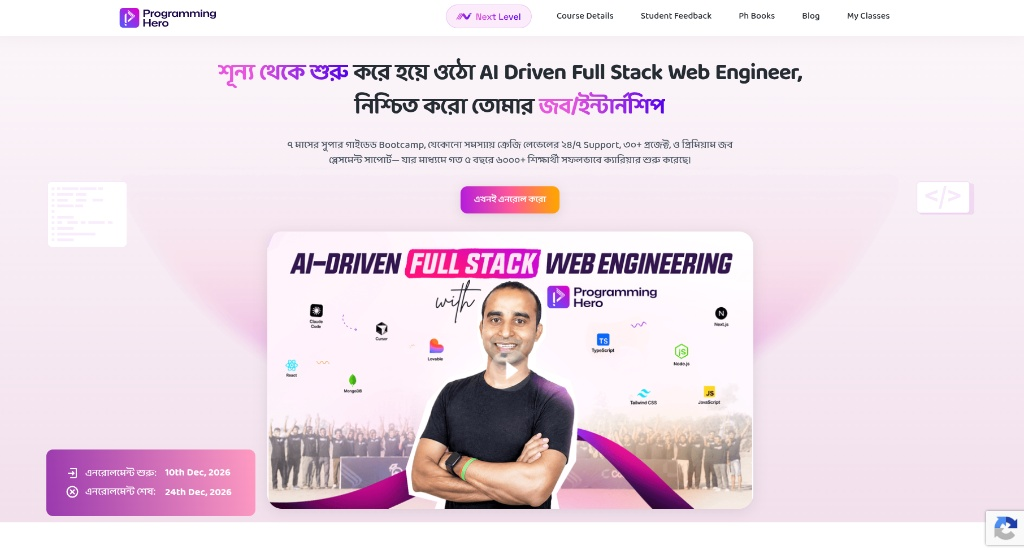
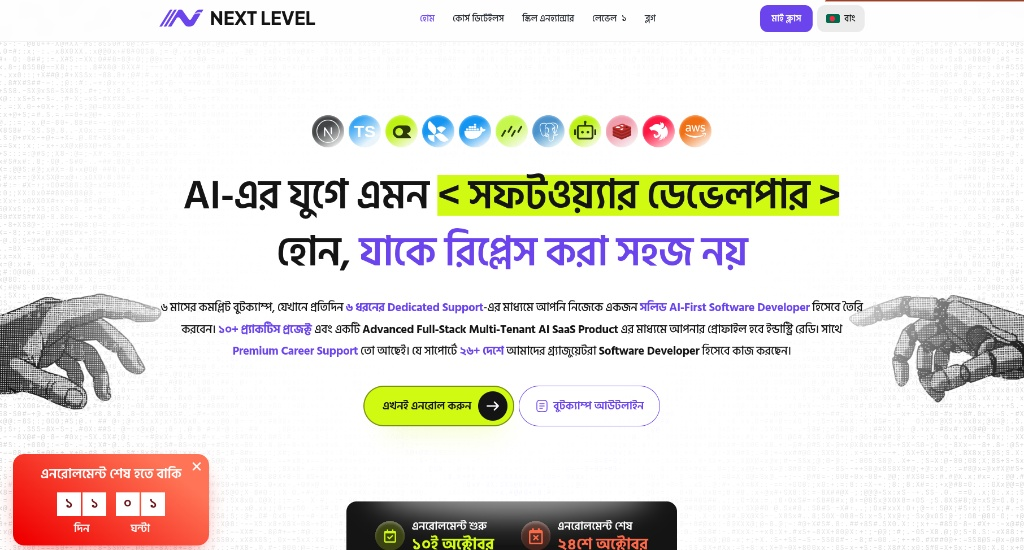
feat: update project details and images for enhanced presentation

diff --git a/apps/frontend/components/tech-tools/tech-tools-section.tsx b/apps/frontend/components/tech-tools/tech-tools-section.tsx
@@ -19,30 +19,30 @@ const layers = [
   {
     id: "backend", icon: ServerStack02Icon, title: "Backend engineering", label: "Services and APIs",
     description: "I build APIs, authentication, and services with clear boundaries, typed communication, and testing that supports confident changes.",
-    tools: ["Node.js", "Express.js", "Golang", "Python", "gRPC", "tRPC", "Testing"],
-    example: "Built services in Go and Python with gRPC and tRPC, and implemented OpenID Connect for single sign-on across company products.",
-    role: "developer", context: "Programming Hero",
+    tools: ["Node.js", "Express.js", "Golang", "Python", "gRPC", "tRPC", "BullMQ", "FFmpeg", "Testing"],
+    example: "Built Go and Python services with gRPC and tRPC. Mentora uses SSE for streamed answers and BullMQ workers for video ingestion with FFmpeg.",
+    role: "developer", context: "Programming Hero & Mentora",
   },
   {
     id: "systems", icon: Structure02Icon, title: "System design", label: "Architecture and boundaries",
     description: "I turn product requirements into clear service boundaries and data flows, with attention to maintainability, security, and performance.",
-    tools: ["System design", "Service architecture", "OIDC", "Security", "Performance", "Code review"],
-    example: "Designed centralized authentication across company products and mentored developers through full-stack architecture decisions.",
-    role: "developer", context: "Programming Hero",
+    tools: ["System design", "Service architecture", "Background jobs", "Event sourcing", "Turborepo", "OIDC", "Security", "Performance", "Code review"],
+    example: "Designed centralized authentication across company products. Mentora separates interactive requests from background jobs and derives skill mastery from an append-only learning event ledger.",
+    role: "developer", context: "Programming Hero & Mentora",
   },
   {
     id: "database", icon: Database02Icon, title: "Database", label: "Storage and access",
-    description: "I work with relational and document databases, data modeling, and caching to keep application data organized and accessible.",
-    tools: ["PostgreSQL", "MongoDB", "Mongoose", "Prisma", "Drizzle", "GORM", "Redis", "Firebase"],
-    example: "Handle Redis-backed performance work and have taught database development with MongoDB, PostgreSQL, and Prisma.",
-    role: "senior-mentor", context: "Programming Hero",
+    description: "I work with relational and document databases, data modeling, caching, and vector search to keep application data organized and accessible.",
+    tools: ["PostgreSQL", "pgvector", "MongoDB", "Mongoose", "Prisma", "Drizzle", "GORM", "Redis", "Firebase"],
+    example: "Teach database development with PostgreSQL, MongoDB, and Prisma. Mentora combines pgvector similarity with full-text search to retrieve lecture context within a learner’s watch time.",
+    role: "senior-mentor", context: "Programming Hero & Mentora",
   },
   {
     id: "ai", icon: AiBrain03Icon, title: "AI and automation", label: "Agents and workflows",
     description: "I build AI agents and useful automation, connecting language models with relevant data through RAG and vector search.",
-    tools: ["AI Agent", "RAG", "Vector DB", "Python", "AI integration", "Agentic development"],
-    example: "Contributed to Edulavo’s personalized learning roadmaps using a multi-agent architecture. Now integrating RAG and vector search into learning products.",
-    role: "developer", context: "Edulavo & Programming Hero",
+    tools: ["AI Agent", "RAG", "Vector DB", "OpenRouter", "OpenAI SDK", "Deepgram", "Python", "AI integration", "Agentic development"],
+    example: "Contributed to Edulavo’s multi-agent learning roadmaps. Mentora combines Deepgram transcription, OpenAI embeddings, and OpenRouter model routing for cited lecture Q&A and checkpoint quizzes.",
+    role: "developer", context: "Edulavo & Mentora",
   },
   {
     id: "cloud", icon: CloudServerIcon, title: "Cloud delivery", label: "Deployment and operations",
@@ -97,17 +97,17 @@ function StackBlueprint({ selected, reducedMotion, onSelect }: { selected: numbe
             onFocus={() => setFocused(index)}
             onBlur={() => setFocused(null)}
           >
-          <motion.g aria-hidden="true" className={`${styles.layerVisual} ${selected === index ? styles.activePlane : styles.plane}`} animate={{ y: (selected === index ? -12 : 0) - (highlighted && !reducedMotion ? 8 : 0) }} transition={{ duration: reducedMotion ? 0 : 0.35, ease: [0.22, 1, 0.36, 1] }}>
-            <path className={styles.planeEdge} d={`M128 ${y + 80} 320 ${y + 176} 512 ${y + 80}V${y + 92}L320 ${y + 188} 128 ${y + 92}Z`} />
-            <path className={styles.planeFace} d={`M128 ${y + 80} 320 ${y - 16} 512 ${y + 80} 320 ${y + 176}Z`} />
-            <path className={styles.planeGrid} d={`M192 ${y + 48} 384 ${y + 144} M256 ${y + 16} 448 ${y + 112} M192 ${y + 112} 384 ${y + 16} M256 ${y + 144} 448 ${y + 48}`} />
-            <path className={styles.trace} d={`M224 ${y + 80} 288 ${y + 48} 352 ${y + 80} 416 ${y + 48}`} />
-            <circle className={styles.node} cx="224" cy={y + 80} r="4" /><circle className={styles.node} cx="416" cy={y + 48} r="4" />
-            <path className={styles.callout} d={`M512 ${y + 80}H548`} /><circle cx="560" cy={y + 80} r="4" className={styles.node} />
-          </motion.g>
-          {/* Fixed hit areas keep the pointer stable while the visible layer lifts. */}
-          <path className={styles.layerHitArea} d={`M128 ${y + 80} 320 ${y - 16} 512 ${y + 80}V${y + 92}L320 ${y + 188} 128 ${y + 92}Z`} />
-          <rect className={styles.layerHitArea} x="540" y={y + 60} width="56" height="40" />
+            <motion.g aria-hidden="true" className={`${styles.layerVisual} ${selected === index ? styles.activePlane : styles.plane}`} animate={{ y: (selected === index ? -12 : 0) - (highlighted && !reducedMotion ? 8 : 0) }} transition={{ duration: reducedMotion ? 0 : 0.35, ease: [0.22, 1, 0.36, 1] }}>
+              <path className={styles.planeEdge} d={`M128 ${y + 80} 320 ${y + 176} 512 ${y + 80}V${y + 92}L320 ${y + 188} 128 ${y + 92}Z`} />
+              <path className={styles.planeFace} d={`M128 ${y + 80} 320 ${y - 16} 512 ${y + 80} 320 ${y + 176}Z`} />
+              <path className={styles.planeGrid} d={`M192 ${y + 48} 384 ${y + 144} M256 ${y + 16} 448 ${y + 112} M192 ${y + 112} 384 ${y + 16} M256 ${y + 144} 448 ${y + 48}`} />
+              <path className={styles.trace} d={`M224 ${y + 80} 288 ${y + 48} 352 ${y + 80} 416 ${y + 48}`} />
+              <circle className={styles.node} cx="224" cy={y + 80} r="4" /><circle className={styles.node} cx="416" cy={y + 48} r="4" />
+              <path className={styles.callout} d={`M512 ${y + 80}H548`} /><circle cx="560" cy={y + 80} r="4" className={styles.node} />
+            </motion.g>
+            {/* Fixed hit areas keep the pointer stable while the visible layer lifts. */}
+            <path className={styles.layerHitArea} d={`M128 ${y + 80} 320 ${y - 16} 512 ${y + 80}V${y + 92}L320 ${y + 188} 128 ${y + 92}Z`} />
+            <rect className={styles.layerHitArea} x="540" y={y + 60} width="56" height="40" />
           </g>
         );
       })}
@@ -160,19 +160,19 @@ export function TechToolsSection() {
             <div className={styles.diagramHeader}><HugeiconsIcon icon={layer.icon} size={24} aria-hidden="true" /><span>Select a layer to explore</span></div>
             <div className={styles.diagram}><StackBlueprint selected={selected} reducedMotion={reducedMotion} onSelect={selectManually} /><span className={styles.diagramLabel}>{layer.label}</span></div>
             <div className={styles.panels}>
-            {layers.map((item, index) => (
-              <div key={item.id} role="tabpanel" id={`tech-panel-${item.id}`} aria-labelledby={`tech-tab-${item.id}`} hidden={selected !== index} tabIndex={0} className={styles.panel}>
-                <motion.div key={`${item.id}-${selected === index}`} initial={reducedMotion || selected !== index ? false : { opacity: 0, y: 8 }} animate={{ opacity: 1, y: 0 }} transition={{ duration: reducedMotion ? 0 : 0.3 }}>
-                  <div className={styles.panelHeading}><h3>{item.title}</h3></div><p className={styles.panelCopy}>{item.description}</p>
-                  <ul className={styles.tools}>{item.tools.map((tool, toolIndex) => <motion.li key={tool} initial={reducedMotion ? false : { opacity: 0, y: 6 }} animate={{ opacity: 1, y: 0 }} transition={{ duration: reducedMotion ? 0 : 0.25, delay: reducedMotion ? 0 : toolIndex * 0.035 }}>{tool}</motion.li>)}</ul>
-                  <div className={styles.example}>
-                    <p className={styles.exampleLabel}>In practice <span>{item.context}</span></p>
-                    <p className={styles.exampleCopy}>{item.example}</p>
-                    <a href={`#experience-${item.role}`} className={styles.exampleLink}>Explore the role <span aria-hidden="true">↗</span></a>
-                  </div>
-                </motion.div>
-              </div>
-            ))}
+              {layers.map((item, index) => (
+                <div key={item.id} role="tabpanel" id={`tech-panel-${item.id}`} aria-labelledby={`tech-tab-${item.id}`} hidden={selected !== index} tabIndex={0} className={styles.panel}>
+                  <motion.div key={`${item.id}-${selected === index}`} initial={reducedMotion || selected !== index ? false : { opacity: 0, y: 8 }} animate={{ opacity: 1, y: 0 }} transition={{ duration: reducedMotion ? 0 : 0.3 }}>
+                    <div className={styles.panelHeading}><h3>{item.title}</h3></div><p className={styles.panelCopy}>{item.description}</p>
+                    <ul className={styles.tools}>{item.tools.map((tool, toolIndex) => <motion.li key={tool} initial={reducedMotion ? false : { opacity: 0, y: 6 }} animate={{ opacity: 1, y: 0 }} transition={{ duration: reducedMotion ? 0 : 0.25, delay: reducedMotion ? 0 : toolIndex * 0.035 }}>{tool}</motion.li>)}</ul>
+                    <div className={styles.example}>
+                      <p className={styles.exampleLabel}>In practice <span>{item.context}</span></p>
+                      <p className={styles.exampleCopy}>{item.example}</p>
+                      <a href={`#experience-${item.role}`} className={styles.exampleLink}>Explore the role <span aria-hidden="true">↗</span></a>
+                    </div>
+                  </motion.div>
+                </div>
+              ))}
             </div>
           </div>
         </motion.div>

diff --git a/apps/frontend/components/projects/projects-section.tsx b/apps/frontend/components/projects/projects-section.tsx
@@ -19,33 +19,54 @@ const projects = [
     imageAlt: "Edulavo website showing an AI-powered skill coach and adaptive learning paths",
     href: "https://www.edulavo.com/",
     host: "edulavo.com",
+    linkLabel: "Visit live site",
+    previewLabel: "Open site",
     technologies: ["Next.js", "TypeScript", "OpenAI", "Python", "gRPC", "tRPC", "CrewAI"],
     className: styles.featured,
   },
   {
-    id: "next-level",
+    id: "mentora",
     index: "02",
+    name: "Mentora",
+    label: "AI-native learning ecosystem",
+    description: "Video lectures become conversations, with cited AI answers, checkpoint quizzes, and a digital twin that tracks each learner’s skills.",
+    image: "/images/project2.png",
+    imageAlt: "Mentora banner with an AI learning assistant and the tagline AI-Powered Interactive Education Ecosystem",
+    href: "https://github.com/mir-hussain/ph-ai-eco",
+    host: "github.com/mir-hussain/ph-ai-eco",
+    linkLabel: "View repository",
+    previewLabel: "Open repository",
+    technologies: ["Next.js", "TypeScript", "Express", "Prisma", "PostgreSQL", "pgvector", "Redis", "BullMQ", "OpenRouter", "Deepgram"],
+    className: styles.mentora,
+  },
+  {
+    id: "next-level",
+    index: "03",
     name: "Next Level",
     label: "AI-first engineering program",
     description: "A career-focused learning experience for developers becoming production-ready engineers.",
-    image: "/images/project2.jpeg",
+    image: "/images/project3.jpeg",
     imageAlt: "Next Level website promoting an AI-first software engineering program",
     href: "https://next.programming-hero.com/",
     host: "next.programming-hero.com",
-    technologies: ["Next.js", "TypeScript", "Node.js", "PostgreSQL"],
+    linkLabel: "Visit live site",
+    previewLabel: "Open site",
+    technologies: ["Next.js", "TypeScript", "Node.js", "MongoDB", "Mongoose", "Redis", "Docker"],
     className: styles.nextLevel,
   },
   {
     id: "programming-hero",
-    index: "03",
+    index: "04",
     name: "Programming Hero",
     label: "Career-focused ed-tech platform",
     description: "Practical learning programs helping developers build real-world software skills.",
-    image: "/images/project3.jpeg",
+    image: "/images/project4.jpeg",
     imageAlt: "Programming Hero website for an AI-driven full-stack web engineering program",
     href: "https://web.programming-hero.com/home",
     host: "web.programming-hero.com",
-    technologies: ["React", "Next.js", "Node.js", "Redis"],
+    linkLabel: "Visit live site",
+    previewLabel: "Open site",
+    technologies: ["React", "Next.js", "Node.js", "Redis", "AWS", "Firebase", "Pino", "Stripe"],
     className: styles.programmingHero,
   },
 ] as const;
@@ -114,7 +135,7 @@ export function ProjectsSection() {
           {projects.map((project) => (
             <motion.li className={`${styles.project} ${project.className}`} key={project.id} variants={revealVariants.entry}>
               <motion.a
-                aria-label={`Visit ${project.name}`}
+                aria-label={`${project.previewLabel}: ${project.name}`}
                 className={styles.visual}
                 href={project.href}
                 onPointerMove={updateBorderSpotlight}
@@ -132,7 +153,7 @@ export function ProjectsSection() {
                   />
                   <span aria-hidden="true" className={styles.imageVeil} />
                 </span>
-                <span aria-hidden="true" className={styles.visualMark}>Open site <HugeiconsIcon icon={ArrowUpRight01Icon} size="1em" /></span>
+                <span aria-hidden="true" className={styles.visualMark}>{project.previewLabel} <HugeiconsIcon icon={ArrowUpRight01Icon} size="1em" /></span>
                 <span aria-hidden="true" className={styles.visualFooter}>
                   <span>{project.host}</span>
                   <HugeiconsIcon icon={ArrowUpRight01Icon} size="1em" />
@@ -150,7 +171,7 @@ export function ProjectsSection() {
                   {project.technologies.map((technology) => <li key={technology}>{technology}</li>)}
                 </ul>
                 <a className={styles.liveLink} href={project.href} rel="noreferrer" target="_blank">
-                  Visit live site <HugeiconsIcon aria-hidden="true" icon={ArrowUpRight01Icon} size="1em" />
+                  {project.linkLabel} <HugeiconsIcon aria-hidden="true" icon={ArrowUpRight01Icon} size="1em" />
                 </a>
               </motion.div>
             </motion.li>

diff --git a/apps/frontend/components/projects/projects-section.module.css b/apps/frontend/components/projects/projects-section.module.css
@@ -67,6 +67,9 @@
 
 .imageFrame { position: relative; display: block; height: 100%; overflow: hidden; }
 
+/* Keep the full Mentora poster visible, including its title and tagline. */
+.mentora .visual { aspect-ratio: 1351 / 1164; }
+
 .image {
   object-fit: cover;
   object-position: center top;
@@ -226,10 +229,12 @@
   .featured { padding-top: var(--space-16); padding-bottom: var(--space-24); }
   .featured .visual { grid-column: span 7; }
   .featured .record { grid-column: 8 / span 5; }
-  .nextLevel .record { grid-column: 1 / span 5; grid-row: 1; }
-  .nextLevel .visual { grid-column: 6 / span 7; }
-  .programmingHero .visual { grid-column: span 7; }
-  .programmingHero .record { grid-column: 8 / span 5; }
+  .mentora .record,
+  .programmingHero .record { grid-column: 1 / span 5; grid-row: 1; }
+  .mentora .visual,
+  .programmingHero .visual { grid-column: 6 / span 7; }
+  .nextLevel .visual { grid-column: span 7; }
+  .nextLevel .record { grid-column: 8 / span 5; }
 }
 
 @media (prefers-reduced-motion: reduce) {

diff --git a/apps/frontend/components/hero/hero-entrance.module.css b/apps/frontend/components/hero/hero-entrance.module.css
@@ -33,15 +33,6 @@
   text-align: center;
 }
 
-.kicker {
-  color: hsl(var(--accent-strong));
-  font-family: var(--font-hanken-grotesk), sans-serif;
-  font-size: var(--text-kicker);
-  font-weight: 600;
-  letter-spacing: 0.12em;
-  line-height: var(--leading-kicker);
-}
-
 .title {
   max-width: 9ch;
   margin-inline: auto;
@@ -162,7 +153,6 @@
   .intro { position: relative; justify-items: start; text-align: left; }
   .title { margin-inline: 0; transform-origin: left center; }
   .actions { justify-content: start; }
-  .kicker { position: absolute; top: calc(var(--space-6) * -1); left: 0; }
   .terminalWrap::before {
     position: absolute; z-index: 2; top: 0; bottom: 0; left: calc(var(--space-12) * -1); width: 1px;
     content: ""; pointer-events: none;

diff --git a/apps/frontend/components/hero/hero-entrance.tsx b/apps/frontend/components/hero/hero-entrance.tsx
@@ -76,8 +76,6 @@ export function HeroEntrance() {
             <AuraBackground />
             <motion.div className={styles.grid} variants={entranceVariants.grid}>
               <motion.div className={styles.intro} variants={entranceVariants.intro}>
-                <p className={styles.kicker}>Developer profile</p>
-
                 <LineShadowText
                   aria-label="Mizanur Rahman"
                   as="h1"
